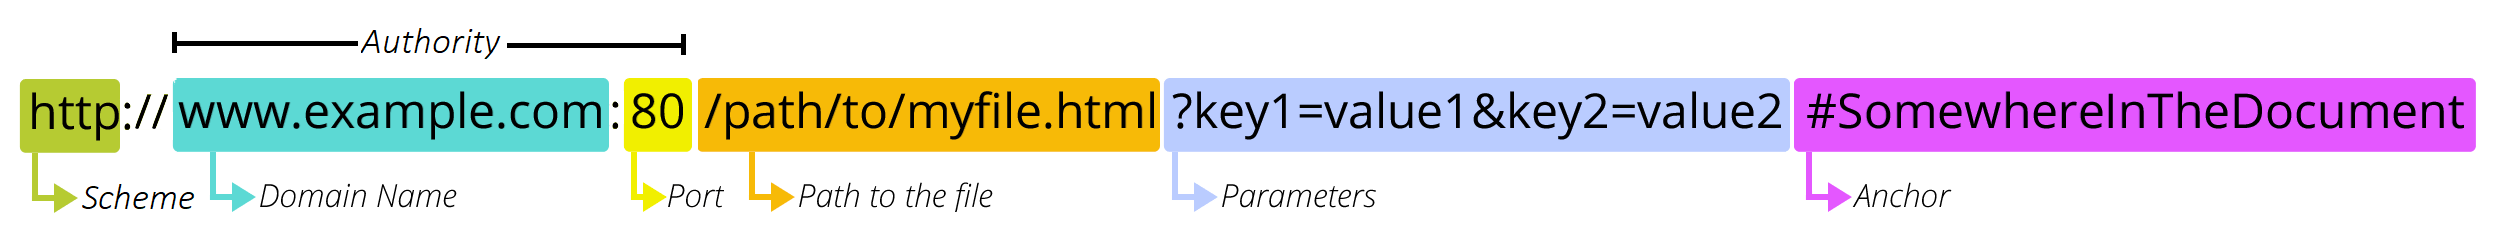
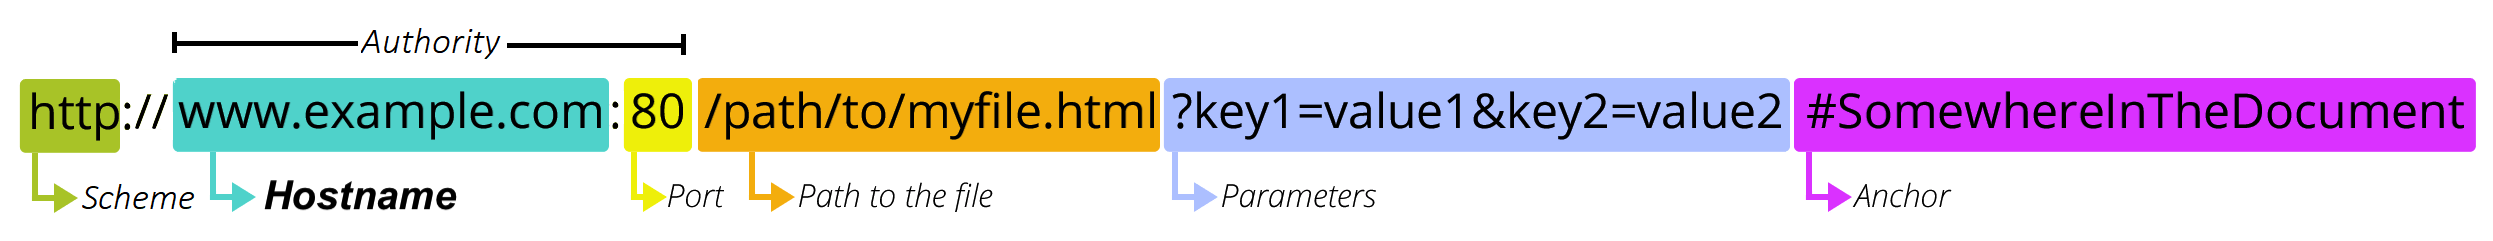
Update architecture docs

Changed region(s): [[0.7104, 0.3195, 1.0, 0.639], [0.0927, 0.7552, 0.1853, 0.8714], [0.7104, 0.7552, 0.7413, 0.8714]]

diff --git a/docs/architecture.md b/docs/architecture.md
@@ -12,16 +12,16 @@ erDiagram
 
 ### Link
 
-A `String` of the domain that represents the website, for example `"www.google.com" or "blog.myspecialplace.com"`.
+A `String` of the hostname that represents the website, for example `"www.google.com" or "blog.myspecialplace.com"`.
 
-[See here](https://developer.mozilla.org/en-US/docs/Learn/Common_questions/What_is_a_URL) for a good explanation of the different pieces in the URL:
+[See here](https://developer.mozilla.org/en-US/docs/Web/API/Location/hostname) for a good explanation of the different pieces in the URL:
 <br/><img height=70 src="../docs/assets/URL_description.png" alt="Structure and components of a URL"></img>
 
-_Right now all voting just happens on the domain, but there could be a future where Discontent allows voting on paths underneath the domain. This mean being able to vote on individual Medium articles for example._
+_Right now all voting just happens on the hostname, but there could be a future where Discontent allows voting on full URL paths. This would mean being able to vote on individual Medium articles for example._
 
 ### Vote
 
-An `Integer` that's either a +1 or -1, stored with a `Timestamp` when the vote was made.
+An `Integer` that's either a +1 or -1, stored with a `Timestamp` when the vote was made. Always associated with a `User` and a `Link`.
 
 ### Timestamp
 
@@ -46,18 +46,16 @@ In the future this will probably need to be tweaked for more nuanced scoring, li
 
 Identified by a `UUID`. I wanted a passwordless system and this seemed like a flexible choice. Has a number of properties:
 
-- userNotes: `String`
-- userBannedOn: `Timestamp`
-
-Only one `Vote` can be submitted per `User` per `Link`.
+- user_notes: `String`
+- user_is_banned: `Timestamp`
 
 ### Settings
 
 System wide configuration that can change the behaviour of everything.
 
-- votingIsDisabled: `Boolean`
+- voting_is_disabled: `Boolean`
 
-The idea behind `votingIsDisabled` is in case there's a spam armaggedon and all voting needs to be stopped.
+The idea behind `voting_is_disabled` is in case there's a spam armaggedon and all voting needs to be stopped.
 
 ## API
 
@@ -65,11 +63,11 @@ _TODO: Link to a swagger page._
 
 | Request                                            | Response                       | Visibility                            |
 | -------------------------------------------------- | ------------------------------ | ------------------------------------- |
-| `GET /scores?links=[l1, l2, ...]`                  | `[{link: Link, score: Score}]` | Public                                |
+| `GET /scores?for=[link1, link2, ...]`              | `[{link: Link, score: Score}]` | Public                                |
 | `GET /vote?link=link`                              | `Vote`                         | Public                                |
 | `POST /vote {link, vote, userId}`                  |                                | Public                                |
 | `POST /admin/vote {link, vote, userId, timestamp}` |                                | Admin only, used for database seeding |
-| `POST /admin/settings { votingIsDisabled }`        |                                | Admin only                            |
+| `POST /admin/settings { voting_is_disabled }`      |                                | Admin only                            |
 
 ## Database
 
@@ -83,8 +81,8 @@ The access patterns are reasonably well defined:
 
 | Runtime Access Patterns       | Description                                        | Table - Filter                                            |
 | ----------------------------- | -------------------------------------------------- | --------------------------------------------------------- |
-| Get vote summaries for a Link | Summaries are `sumOfVotes` & `numberOfVotes`       | `Table:Discontent - PK=link#<link>, SK=link#<link>`       |
-| Get all votes for a Link      | To calculate `sumOfVotes` & `numberOfVotes`        | `Table:Discontent - PK=link#<link>, SK.startswith(user#)` |
+| Get vote summaries for a Link | Summaries are `sum_of_votes` & `count_of_votes`    | `Table:Discontent - PK=link#<link>, SK=link#<link>`       |
+| Get all votes for a Link      | To calculate `sum_of_votes` & `count_of_votes`     | `Table:Discontent - PK=link#<link>, SK.startswith(user#)` |
 | Get vote for a Link and user  | To make sure a user can't vote twice               | `Table:Discontent - PK=link#<link>, SK=user#<userId>`     |
 | Get vote for a Link and user  | To auto select the correct vote button             | `Table:Discontent - PK=link#<link>, SK=user#<userId>`     |
 | Get vote summaries for a User | To limit the number of submissions in a time range | `Table:Discontent - PK=day#<date>, SK=user#<userId>`      |
@@ -114,22 +112,22 @@ sequenceDiagram
     actor Extension
     participant API
     participant Database
-    Extension->>API: GET /scores?links=[l1, l2, ...]
+    Extension->>API: GET /scores?for=[link1, link2, ...]
 		activate API
 		API->>API: Validate request
     alt Request Error
         API->>Extension: Request Error (Invalid params / authentication...)
     end
-		API->>Database: BatchGetItem(Table:Discontent - PK=<l1, l2...>, SK=<l1, l2...>)
+		API->>Database: BatchGetItem(Table:Discontent - PK,SK=<link, ...>)
 		Note over API,Database: If a link does not yet exist in the table, it's not returned
 		activate Database
     alt Database Error
         Database->>API: Database Error (connection / server...)
         API->>Extension: Server Error
     end
-		Database->>API: Return [{link, sumOfVotes, numberOfVotes}]
-		API->>API: Calculate scores for [{link, sumOfVotes, numberOfVotes}]
-		API->>Extension: Return [{link, score}]
+		Database->>API: Return [{link, sum_of_votes, count_of_votes}, ...]
+		API->>API: Calculate scores
+		API->>Extension: Return [{link, score}, ...]
     deactivate Database
     deactivate API
 ```
@@ -165,10 +163,10 @@ sequenceDiagram
 		activate Database
 		API->>Database: Submit vote. BatchWriteItems(_________________)
 		Note over API,Database: UpdateItem(PK=link, SK=userId | vote)
-		Note over API,Database: UpdateItem(PK=link, SK=link | countOfVotes++, sumOfVotes+=vote)
-		Note over API,Database: UpdateItem(PK=day, SK=link | countOfVotes++, sumOfVotes+=vote)
-		Note over API,Database: UpdateItem(PK=day, SK=user | countOfVotes++, sumOfVotes+=vote)
-		Note over API,Database: UpdateItem(PK=user, SK=user | userNotes)
+		Note over API,Database: UpdateItem(PK=link, SK=link | count_of_votes++, sum_of_votes+=vote)
+		Note over API,Database: UpdateItem(PK=day, SK=link | count_of_votes++, sum_of_votes+=vote)
+		Note over API,Database: UpdateItem(PK=day, SK=user | count_of_votes++, sum_of_votes+=vote)
+		Note over API,Database: UpdateItem(PK=user, SK=user | user_notes)
 		activate Database
     alt Database Error
         Database->>API: Database Error (connection / server...)
